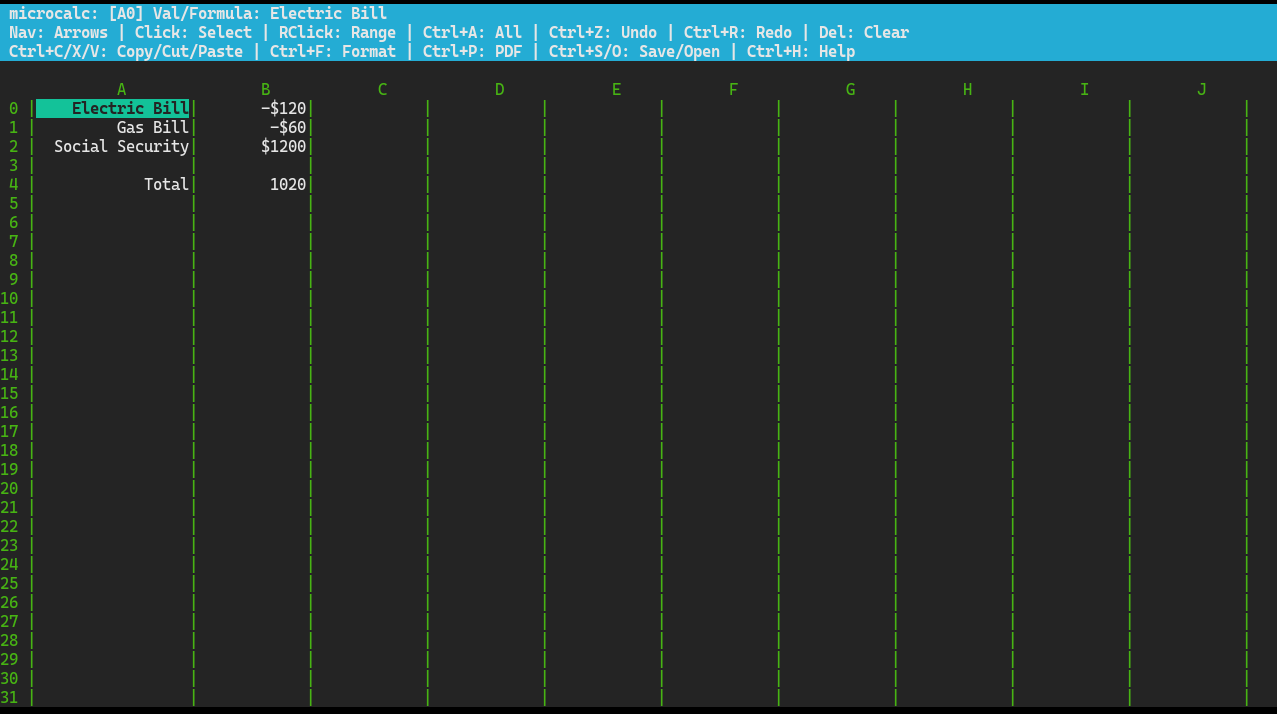
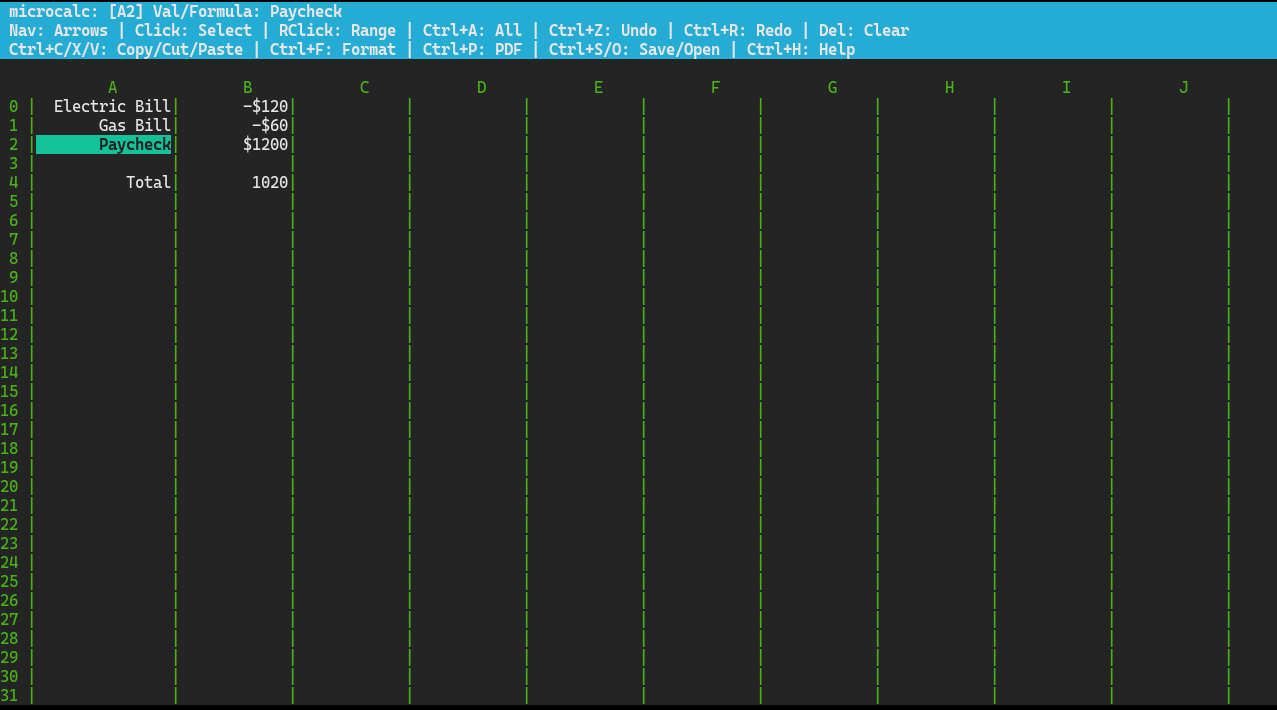
Add files via upload

diff --git a/readme.md b/readme.md
@@ -9,7 +9,7 @@
 ## ✨ Features
 
 - **Blazing Fast TUI:** Built on `ncurses` with instant mouse response times (`mouseinterval(50)`).
-- **Advanced Formula Engine:** Supports arithmetic operations, cell references (`=A0+A1`), and range functions (`SUM`, `AVG`, `MAX`, `MIN`, `COUNT`) with automatic dependency resolution.
+- **Advanced Formula Engine:** Supports arithmetic operations, cell references (`=A0+A1`), and range functions (`SUM`, `AVG`, `MAX`, `MIN`, `COUNT`) with automatic dependency resolution. Features several methods of entering formulas, including a new shorthand variant where for example you can sum up cells by entering '=A0:A6', which would sum up cells A0 to A6. Or '=A0sA6' which will do the same thing, or '=SUM(A0:A6)', and so on.
 - **System Clipboard Integration:** Seamlessly copy and paste spreadsheet ranges as TSV/CSV blocks directly to/from your system clipboard (`wl-copy`/`wl-paste` for Wayland, or `xclip`/`xsel` for X11).
 - **Undo & Redo Stacks:** Full multi-level `Ctrl+Z` (Undo) and `Ctrl+R` (Redo) support.
 - **Printable PDF Export:** Export your sheet directly into a clean, standalone PDF document complete with dynamic column-width layout and Helvetica typography.
